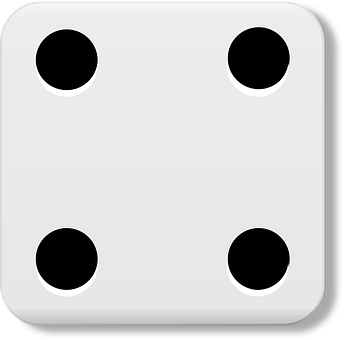
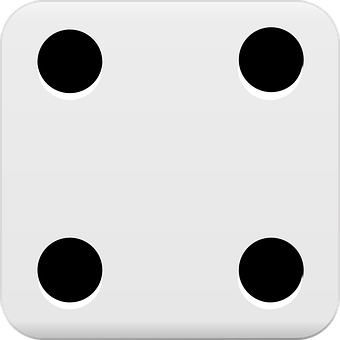
Dices images changed

diff --git a/Dices/dices/templates/base.html b/Dices/dices/templates/base.html
@@ -64,6 +64,10 @@
                     margin-bottom: 25px;
                     font-size: 20px;
                  }
+                 .dice {
+                   width: 270px;
+                   height: 270px;
+                 }
                  @media (min-width: 768px) {
                      .row.equal {
                          display: flex;
@@ -83,10 +87,7 @@
                          font-size: 16px;
                      }
                  }
-                 .dice {
-                   width: 270px;
-                   height: 270px;
-                 }
+
         </style>
     </head>
     <body>

diff --git a/Dices/dices/templates/game_1_start.html b/Dices/dices/templates/game_1_start.html
@@ -3,12 +3,12 @@
 {% block content %}
 {% load static %}
   <div>
-    <h2>Click on your scores:</h2>
+    <h2 class="text-danger">Click on your scores:</h2>
   </div>
   <div>
     {% for roll_dice in roll_dices %}
       {% if roll_dice == 1 %}
-        <img src="{% static "./1.webp" %}" class="dice">
+        <img src="{% static "./1.png" %}" class="dice">
       {% elif roll_dice == 2 %}
         <img src="{% static "./2.png" %}" class="dice">
       {% elif roll_dice == 3 %}
